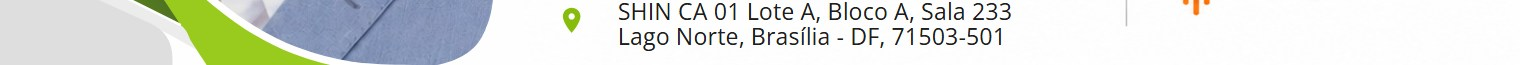
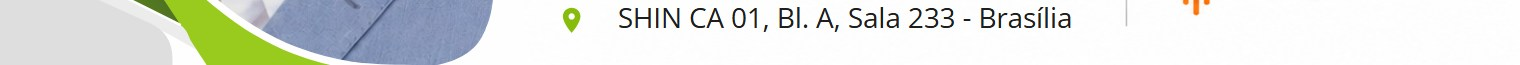
Resume o endereco das assinaturas Ecovolt em uma linha
O endereco em duas linhas deixava a arte carregada. A imagem mostra
a versao curta; o link do mapa continua usando o endereco completo.

Changed region(s): [[0.402, 0.0308, 0.7112, 0.7692]]

diff --git a/ecovolt/assinatura-ecovolt-vladimir-nogueira-phd.html b/ecovolt/assinatura-ecovolt-vladimir-nogueira-phd.html
@@ -13,7 +13,7 @@
       <a href="mailto:engenharia@grupoecovolt.com.br" style="display:block;font-size:0;line-height:0;text-decoration:none;"><img src="https://raw.githubusercontent.com/danielhell666/assinatura_email/main/ecovolt/assets/recortes/ecovolt-vladimir-nogueira-phd-faixa3.jpg" width="760" alt="E-mail: engenharia@grupoecovolt.com.br" style="display:block;width:100%;max-width:760px;height:auto;border:0;outline:none;text-decoration:none;"></a>
       <a href="https://www.grupoecovolt.com.br" target="_blank" style="display:block;font-size:0;line-height:0;text-decoration:none;"><img src="https://raw.githubusercontent.com/danielhell666/assinatura_email/main/ecovolt/assets/recortes/ecovolt-vladimir-nogueira-phd-faixa4.jpg" width="760" alt="Site: www.grupoecovolt.com.br" style="display:block;width:100%;max-width:760px;height:auto;border:0;outline:none;text-decoration:none;"></a>
       <img src="https://raw.githubusercontent.com/danielhell666/assinatura_email/main/ecovolt/assets/recortes/ecovolt-vladimir-nogueira-phd-faixa5.jpg" width="760" alt="CNPJ 26.762.139/0001-66" style="display:block;width:100%;max-width:760px;height:auto;border:0;outline:none;text-decoration:none;">
-      <a href="https://www.google.com/maps/search/?api=1&amp;query=Setor%20Shin%20CA%2001%20Lote%20A%20Bloco%20A%2C%20Sala%20233%2C%20Lago%20Norte%2C%20Bras%C3%ADlia%20-%20DF%2C%2071503-501" target="_blank" style="display:block;font-size:0;line-height:0;text-decoration:none;"><img src="https://raw.githubusercontent.com/danielhell666/assinatura_email/main/ecovolt/assets/recortes/ecovolt-vladimir-nogueira-phd-faixa6.jpg" width="760" alt="Endere&#231;o: SHIN CA 01 Lote A, Bloco A, Sala 233, Lago Norte, Bras&#237;lia - DF, 71503-501" style="display:block;width:100%;max-width:760px;height:auto;border:0;outline:none;text-decoration:none;"></a>
+      <a href="https://www.google.com/maps/search/?api=1&amp;query=Setor%20Shin%20CA%2001%20Lote%20A%20Bloco%20A%2C%20Sala%20233%2C%20Lago%20Norte%2C%20Bras%C3%ADlia%20-%20DF%2C%2071503-501" target="_blank" style="display:block;font-size:0;line-height:0;text-decoration:none;"><img src="https://raw.githubusercontent.com/danielhell666/assinatura_email/main/ecovolt/assets/recortes/ecovolt-vladimir-nogueira-phd-faixa6.jpg" width="760" alt="Endere&#231;o: SHIN CA 01, Bl. A, Sala 233 - Bras&#237;lia" style="display:block;width:100%;max-width:760px;height:auto;border:0;outline:none;text-decoration:none;"></a>
       <a href="https://www.grupoecovolt.com.br" target="_blank" style="display:block;font-size:0;line-height:0;text-decoration:none;"><img src="https://raw.githubusercontent.com/danielhell666/assinatura_email/main/ecovolt/assets/recortes/ecovolt-vladimir-nogueira-phd-faixa7.jpg" width="760" alt="Inova&#231;&#227;o | Efici&#234;ncia | Tecnologia" style="display:block;width:100%;max-width:760px;height:auto;border:0;outline:none;text-decoration:none;"></a>
     </td></tr>
   </table>

diff --git a/ecovolt/assinatura-ecovolt-charles-altair.html b/ecovolt/assinatura-ecovolt-charles-altair.html
@@ -13,7 +13,7 @@
       <a href="mailto:licita@grupoecovolt.com.br" style="display:block;font-size:0;line-height:0;text-decoration:none;"><img src="https://raw.githubusercontent.com/danielhell666/assinatura_email/main/ecovolt/assets/recortes/ecovolt-charles-altair-faixa3.jpg" width="760" alt="E-mail: licita@grupoecovolt.com.br" style="display:block;width:100%;max-width:760px;height:auto;border:0;outline:none;text-decoration:none;"></a>
       <a href="https://www.grupoecovolt.com.br" target="_blank" style="display:block;font-size:0;line-height:0;text-decoration:none;"><img src="https://raw.githubusercontent.com/danielhell666/assinatura_email/main/ecovolt/assets/recortes/ecovolt-charles-altair-faixa4.jpg" width="760" alt="Site: www.grupoecovolt.com.br" style="display:block;width:100%;max-width:760px;height:auto;border:0;outline:none;text-decoration:none;"></a>
       <img src="https://raw.githubusercontent.com/danielhell666/assinatura_email/main/ecovolt/assets/recortes/ecovolt-charles-altair-faixa5.jpg" width="760" alt="CNPJ 26.762.139/0001-66" style="display:block;width:100%;max-width:760px;height:auto;border:0;outline:none;text-decoration:none;">
-      <a href="https://www.google.com/maps/search/?api=1&amp;query=Setor%20Shin%20CA%2001%20Lote%20A%20Bloco%20A%2C%20Sala%20233%2C%20Lago%20Norte%2C%20Bras%C3%ADlia%20-%20DF%2C%2071503-501" target="_blank" style="display:block;font-size:0;line-height:0;text-decoration:none;"><img src="https://raw.githubusercontent.com/danielhell666/assinatura_email/main/ecovolt/assets/recortes/ecovolt-charles-altair-faixa6.jpg" width="760" alt="Endere&#231;o: SHIN CA 01 Lote A, Bloco A, Sala 233, Lago Norte, Bras&#237;lia - DF, 71503-501" style="display:block;width:100%;max-width:760px;height:auto;border:0;outline:none;text-decoration:none;"></a>
+      <a href="https://www.google.com/maps/search/?api=1&amp;query=Setor%20Shin%20CA%2001%20Lote%20A%20Bloco%20A%2C%20Sala%20233%2C%20Lago%20Norte%2C%20Bras%C3%ADlia%20-%20DF%2C%2071503-501" target="_blank" style="display:block;font-size:0;line-height:0;text-decoration:none;"><img src="https://raw.githubusercontent.com/danielhell666/assinatura_email/main/ecovolt/assets/recortes/ecovolt-charles-altair-faixa6.jpg" width="760" alt="Endere&#231;o: SHIN CA 01, Bl. A, Sala 233 - Bras&#237;lia" style="display:block;width:100%;max-width:760px;height:auto;border:0;outline:none;text-decoration:none;"></a>
       <a href="https://www.grupoecovolt.com.br" target="_blank" style="display:block;font-size:0;line-height:0;text-decoration:none;"><img src="https://raw.githubusercontent.com/danielhell666/assinatura_email/main/ecovolt/assets/recortes/ecovolt-charles-altair-faixa7.jpg" width="760" alt="Inova&#231;&#227;o | Efici&#234;ncia | Tecnologia" style="display:block;width:100%;max-width:760px;height:auto;border:0;outline:none;text-decoration:none;"></a>
     </td></tr>
   </table>

diff --git a/ecovolt/assinatura-ecovolt-daniel-nobre.html b/ecovolt/assinatura-ecovolt-daniel-nobre.html
@@ -13,7 +13,7 @@
       <a href="mailto:daniel.nobre@grupoecovolt.com.br" style="display:block;font-size:0;line-height:0;text-decoration:none;"><img src="https://raw.githubusercontent.com/danielhell666/assinatura_email/main/ecovolt/assets/recortes/ecovolt-daniel-nobre-faixa3.jpg" width="760" alt="E-mail: daniel.nobre@grupoecovolt.com.br" style="display:block;width:100%;max-width:760px;height:auto;border:0;outline:none;text-decoration:none;"></a>
       <a href="https://www.grupoecovolt.com.br" target="_blank" style="display:block;font-size:0;line-height:0;text-decoration:none;"><img src="https://raw.githubusercontent.com/danielhell666/assinatura_email/main/ecovolt/assets/recortes/ecovolt-daniel-nobre-faixa4.jpg" width="760" alt="Site: www.grupoecovolt.com.br" style="display:block;width:100%;max-width:760px;height:auto;border:0;outline:none;text-decoration:none;"></a>
       <img src="https://raw.githubusercontent.com/danielhell666/assinatura_email/main/ecovolt/assets/recortes/ecovolt-daniel-nobre-faixa5.jpg" width="760" alt="CNPJ 26.762.139/0001-66" style="display:block;width:100%;max-width:760px;height:auto;border:0;outline:none;text-decoration:none;">
-      <a href="https://www.google.com/maps/search/?api=1&amp;query=Setor%20Shin%20CA%2001%20Lote%20A%20Bloco%20A%2C%20Sala%20233%2C%20Lago%20Norte%2C%20Bras%C3%ADlia%20-%20DF%2C%2071503-501" target="_blank" style="display:block;font-size:0;line-height:0;text-decoration:none;"><img src="https://raw.githubusercontent.com/danielhell666/assinatura_email/main/ecovolt/assets/recortes/ecovolt-daniel-nobre-faixa6.jpg" width="760" alt="Endere&#231;o: SHIN CA 01 Lote A, Bloco A, Sala 233, Lago Norte, Bras&#237;lia - DF, 71503-501" style="display:block;width:100%;max-width:760px;height:auto;border:0;outline:none;text-decoration:none;"></a>
+      <a href="https://www.google.com/maps/search/?api=1&amp;query=Setor%20Shin%20CA%2001%20Lote%20A%20Bloco%20A%2C%20Sala%20233%2C%20Lago%20Norte%2C%20Bras%C3%ADlia%20-%20DF%2C%2071503-501" target="_blank" style="display:block;font-size:0;line-height:0;text-decoration:none;"><img src="https://raw.githubusercontent.com/danielhell666/assinatura_email/main/ecovolt/assets/recortes/ecovolt-daniel-nobre-faixa6.jpg" width="760" alt="Endere&#231;o: SHIN CA 01, Bl. A, Sala 233 - Bras&#237;lia" style="display:block;width:100%;max-width:760px;height:auto;border:0;outline:none;text-decoration:none;"></a>
       <a href="https://www.grupoecovolt.com.br" target="_blank" style="display:block;font-size:0;line-height:0;text-decoration:none;"><img src="https://raw.githubusercontent.com/danielhell666/assinatura_email/main/ecovolt/assets/recortes/ecovolt-daniel-nobre-faixa7.jpg" width="760" alt="Inova&#231;&#227;o | Efici&#234;ncia | Tecnologia" style="display:block;width:100%;max-width:760px;height:auto;border:0;outline:none;text-decoration:none;"></a>
     </td></tr>
   </table>

diff --git a/ecovolt/assinatura-ecovolt-paulo-soares.html b/ecovolt/assinatura-ecovolt-paulo-soares.html
@@ -13,7 +13,7 @@
       <a href="mailto:projetos@grupoecovolt.com.br" style="display:block;font-size:0;line-height:0;text-decoration:none;"><img src="https://raw.githubusercontent.com/danielhell666/assinatura_email/main/ecovolt/assets/recortes/ecovolt-paulo-soares-faixa3.jpg" width="760" alt="E-mail: projetos@grupoecovolt.com.br" style="display:block;width:100%;max-width:760px;height:auto;border:0;outline:none;text-decoration:none;"></a>
       <a href="https://www.grupoecovolt.com.br" target="_blank" style="display:block;font-size:0;line-height:0;text-decoration:none;"><img src="https://raw.githubusercontent.com/danielhell666/assinatura_email/main/ecovolt/assets/recortes/ecovolt-paulo-soares-faixa4.jpg" width="760" alt="Site: www.grupoecovolt.com.br" style="display:block;width:100%;max-width:760px;height:auto;border:0;outline:none;text-decoration:none;"></a>
       <img src="https://raw.githubusercontent.com/danielhell666/assinatura_email/main/ecovolt/assets/recortes/ecovolt-paulo-soares-faixa5.jpg" width="760" alt="CNPJ 26.762.139/0001-66" style="display:block;width:100%;max-width:760px;height:auto;border:0;outline:none;text-decoration:none;">
-      <a href="https://www.google.com/maps/search/?api=1&amp;query=Setor%20Shin%20CA%2001%20Lote%20A%20Bloco%20A%2C%20Sala%20233%2C%20Lago%20Norte%2C%20Bras%C3%ADlia%20-%20DF%2C%2071503-501" target="_blank" style="display:block;font-size:0;line-height:0;text-decoration:none;"><img src="https://raw.githubusercontent.com/danielhell666/assinatura_email/main/ecovolt/assets/recortes/ecovolt-paulo-soares-faixa6.jpg" width="760" alt="Endere&#231;o: SHIN CA 01 Lote A, Bloco A, Sala 233, Lago Norte, Bras&#237;lia - DF, 71503-501" style="display:block;width:100%;max-width:760px;height:auto;border:0;outline:none;text-decoration:none;"></a>
+      <a href="https://www.google.com/maps/search/?api=1&amp;query=Setor%20Shin%20CA%2001%20Lote%20A%20Bloco%20A%2C%20Sala%20233%2C%20Lago%20Norte%2C%20Bras%C3%ADlia%20-%20DF%2C%2071503-501" target="_blank" style="display:block;font-size:0;line-height:0;text-decoration:none;"><img src="https://raw.githubusercontent.com/danielhell666/assinatura_email/main/ecovolt/assets/recortes/ecovolt-paulo-soares-faixa6.jpg" width="760" alt="Endere&#231;o: SHIN CA 01, Bl. A, Sala 233 - Bras&#237;lia" style="display:block;width:100%;max-width:760px;height:auto;border:0;outline:none;text-decoration:none;"></a>
       <a href="https://www.grupoecovolt.com.br" target="_blank" style="display:block;font-size:0;line-height:0;text-decoration:none;"><img src="https://raw.githubusercontent.com/danielhell666/assinatura_email/main/ecovolt/assets/recortes/ecovolt-paulo-soares-faixa7.jpg" width="760" alt="Inova&#231;&#227;o | Efici&#234;ncia | Tecnologia" style="display:block;width:100%;max-width:760px;height:auto;border:0;outline:none;text-decoration:none;"></a>
     </td></tr>
   </table>

diff --git a/ecovolt/assinatura-ecovolt-rebeka-viana.html b/ecovolt/assinatura-ecovolt-rebeka-viana.html
@@ -13,7 +13,7 @@
       <a href="mailto:contato@grupoecovolt.com.br" style="display:block;font-size:0;line-height:0;text-decoration:none;"><img src="https://raw.githubusercontent.com/danielhell666/assinatura_email/main/ecovolt/assets/recortes/ecovolt-rebeka-viana-faixa3.jpg" width="760" alt="E-mail: contato@grupoecovolt.com.br" style="display:block;width:100%;max-width:760px;height:auto;border:0;outline:none;text-decoration:none;"></a>
       <a href="https://www.grupoecovolt.com.br" target="_blank" style="display:block;font-size:0;line-height:0;text-decoration:none;"><img src="https://raw.githubusercontent.com/danielhell666/assinatura_email/main/ecovolt/assets/recortes/ecovolt-rebeka-viana-faixa4.jpg" width="760" alt="Site: www.grupoecovolt.com.br" style="display:block;width:100%;max-width:760px;height:auto;border:0;outline:none;text-decoration:none;"></a>
       <img src="https://raw.githubusercontent.com/danielhell666/assinatura_email/main/ecovolt/assets/recortes/ecovolt-rebeka-viana-faixa5.jpg" width="760" alt="CNPJ 26.762.139/0001-66" style="display:block;width:100%;max-width:760px;height:auto;border:0;outline:none;text-decoration:none;">
-      <a href="https://www.google.com/maps/search/?api=1&amp;query=Setor%20Shin%20CA%2001%20Lote%20A%20Bloco%20A%2C%20Sala%20233%2C%20Lago%20Norte%2C%20Bras%C3%ADlia%20-%20DF%2C%2071503-501" target="_blank" style="display:block;font-size:0;line-height:0;text-decoration:none;"><img src="https://raw.githubusercontent.com/danielhell666/assinatura_email/main/ecovolt/assets/recortes/ecovolt-rebeka-viana-faixa6.jpg" width="760" alt="Endere&#231;o: SHIN CA 01 Lote A, Bloco A, Sala 233, Lago Norte, Bras&#237;lia - DF, 71503-501" style="display:block;width:100%;max-width:760px;height:auto;border:0;outline:none;text-decoration:none;"></a>
+      <a href="https://www.google.com/maps/search/?api=1&amp;query=Setor%20Shin%20CA%2001%20Lote%20A%20Bloco%20A%2C%20Sala%20233%2C%20Lago%20Norte%2C%20Bras%C3%ADlia%20-%20DF%2C%2071503-501" target="_blank" style="display:block;font-size:0;line-height:0;text-decoration:none;"><img src="https://raw.githubusercontent.com/danielhell666/assinatura_email/main/ecovolt/assets/recortes/ecovolt-rebeka-viana-faixa6.jpg" width="760" alt="Endere&#231;o: SHIN CA 01, Bl. A, Sala 233 - Bras&#237;lia" style="display:block;width:100%;max-width:760px;height:auto;border:0;outline:none;text-decoration:none;"></a>
       <a href="https://www.grupoecovolt.com.br" target="_blank" style="display:block;font-size:0;line-height:0;text-decoration:none;"><img src="https://raw.githubusercontent.com/danielhell666/assinatura_email/main/ecovolt/assets/recortes/ecovolt-rebeka-viana-faixa7.jpg" width="760" alt="Inova&#231;&#227;o | Efici&#234;ncia | Tecnologia" style="display:block;width:100%;max-width:760px;height:auto;border:0;outline:none;text-decoration:none;"></a>
     </td></tr>
   </table>

diff --git a/ecovolt/modelos/arte.html b/ecovolt/modelos/arte.html
@@ -13,7 +13,6 @@
     .nome { font: 700 70px 'Montserrat'; fill: #141414; }
     .cargo { font: 400 44px 'Montserrat'; fill: #585758; }
     .contato { font: 400 33px 'Open Sans'; fill: #1e1e1e; }
-    .endereco { font: 400 28px 'Open Sans'; fill: #1e1e1e; }
     .icone { fill: #88bc0c; }
     .icone-linha { fill: none; stroke: #88bc0c; stroke-width: 2; stroke-linejoin: round; }
   </style>
@@ -60,8 +59,7 @@
     <text class="contato" x="738" y="591" data-max="582">{{EMAIL}}</text>
     <text class="contato" x="738" y="635" data-max="582">{{SITE}}</text>
     <text class="contato" x="738" y="679" data-max="582">CNPJ {{CNPJ}}</text>
-    <text class="endereco" x="738" y="714" data-max="582">{{ENDERECO_1}}</text>
-    <text class="endereco" x="738" y="744" data-max="582">{{ENDERECO_2}}</text>
+    <text class="contato" x="738" y="723" data-max="582">{{ENDERECO}}</text>
   </svg>
   <script>
     // Reduz a fonte de textos longos para nao invadir a coluna de servicos.

diff --git a/ecovolt/README.md b/ecovolt/README.md
@@ -22,7 +22,7 @@ Cada assinatura é uma imagem 2x com os dados embutidos, cortada em faixas de la
 | Endereço | Google Maps (busca pelo endereço completo) |
 | Rodapé (Inovação, Eficiência, Tecnologia) | site |
 
-O link vale pela faixa inteira, não só pelo texto: tocar na foto, ao lado do telefone, também liga. O bloco de contatos tem telefone, e-mail, site, CNPJ e endereço em duas linhas. A arte segue o modelo `fontes/Cartão Corporativo Grupo Ecovolt.png`. Os dados comuns vêm de `DADOS EMAIL.docx` e são os valores padrão do gerador.
+O link vale pela faixa inteira, não só pelo texto: tocar na foto, ao lado do telefone, também liga. O bloco de contatos tem telefone, e-mail, site, CNPJ e endereço resumido. A arte segue o modelo `fontes/Cartão Corporativo Grupo Ecovolt.png`. Os dados comuns vêm de `DADOS EMAIL.docx` e são os valores padrão do gerador.
 
 ## Organização
 
@@ -57,6 +57,6 @@ O script usa o Chrome (ou o Edge) sem janela para capturar a arte em 1520 x 724 
 - `assinatura-ecovolt-<nome>.html`: assinatura com as faixas publicadas e seus links;
 - `previews/arte-<nome>.html` e `.png`: arte preenchida e captura bruta, para conferência (ignoradas pelo Git).
 
-Parâmetros opcionais com os dados comuns como padrão: `-Telefone`, `-Cnpj`, `-SiteUrl`, `-Endereco1`, `-Endereco2` (as duas linhas da arte) e `-EnderecoMapa` (endereço completo do link do mapa). Se mudar a posição das linhas em `modelos/arte.html`, ajuste os cortes das faixas em `gerar-assinatura.ps1`. Os ajustes de enquadramento `-FotoZoom`, `-FotoDeslocX` e `-FotoDeslocY` usam pixels da arte de referência (1816 x 866). A foto é multiplicada sobre um cinza-claro para que fundos brancos não se confundam com o cartão. Textos longos têm a fonte reduzida automaticamente para não invadir a coluna de serviços.
+Parâmetros opcionais com os dados comuns como padrão: `-Telefone`, `-Cnpj`, `-SiteUrl`, `-Endereco` (versão curta mostrada na arte) e `-EnderecoMapa` (endereço completo do link do mapa). Se mudar a posição das linhas em `modelos/arte.html`, ajuste os cortes das faixas em `gerar-assinatura.ps1`. Os ajustes de enquadramento `-FotoZoom`, `-FotoDeslocX` e `-FotoDeslocY` usam pixels da arte de referência (1816 x 866). A foto é multiplicada sobre um cinza-claro para que fundos brancos não se confundam com o cartão. Textos longos têm a fonte reduzida automaticamente para não invadir a coluna de serviços.
 
 Para conferir sem depender do GitHub, execute `.\scripts\gerar-previas.ps1 -Empresa ecovolt` e abra `ecovolt/previews/`. Publique as imagens de `ecovolt/assets/` (inclusive `recortes/`) na branch `main` antes de copiar a assinatura para o e-mail.
